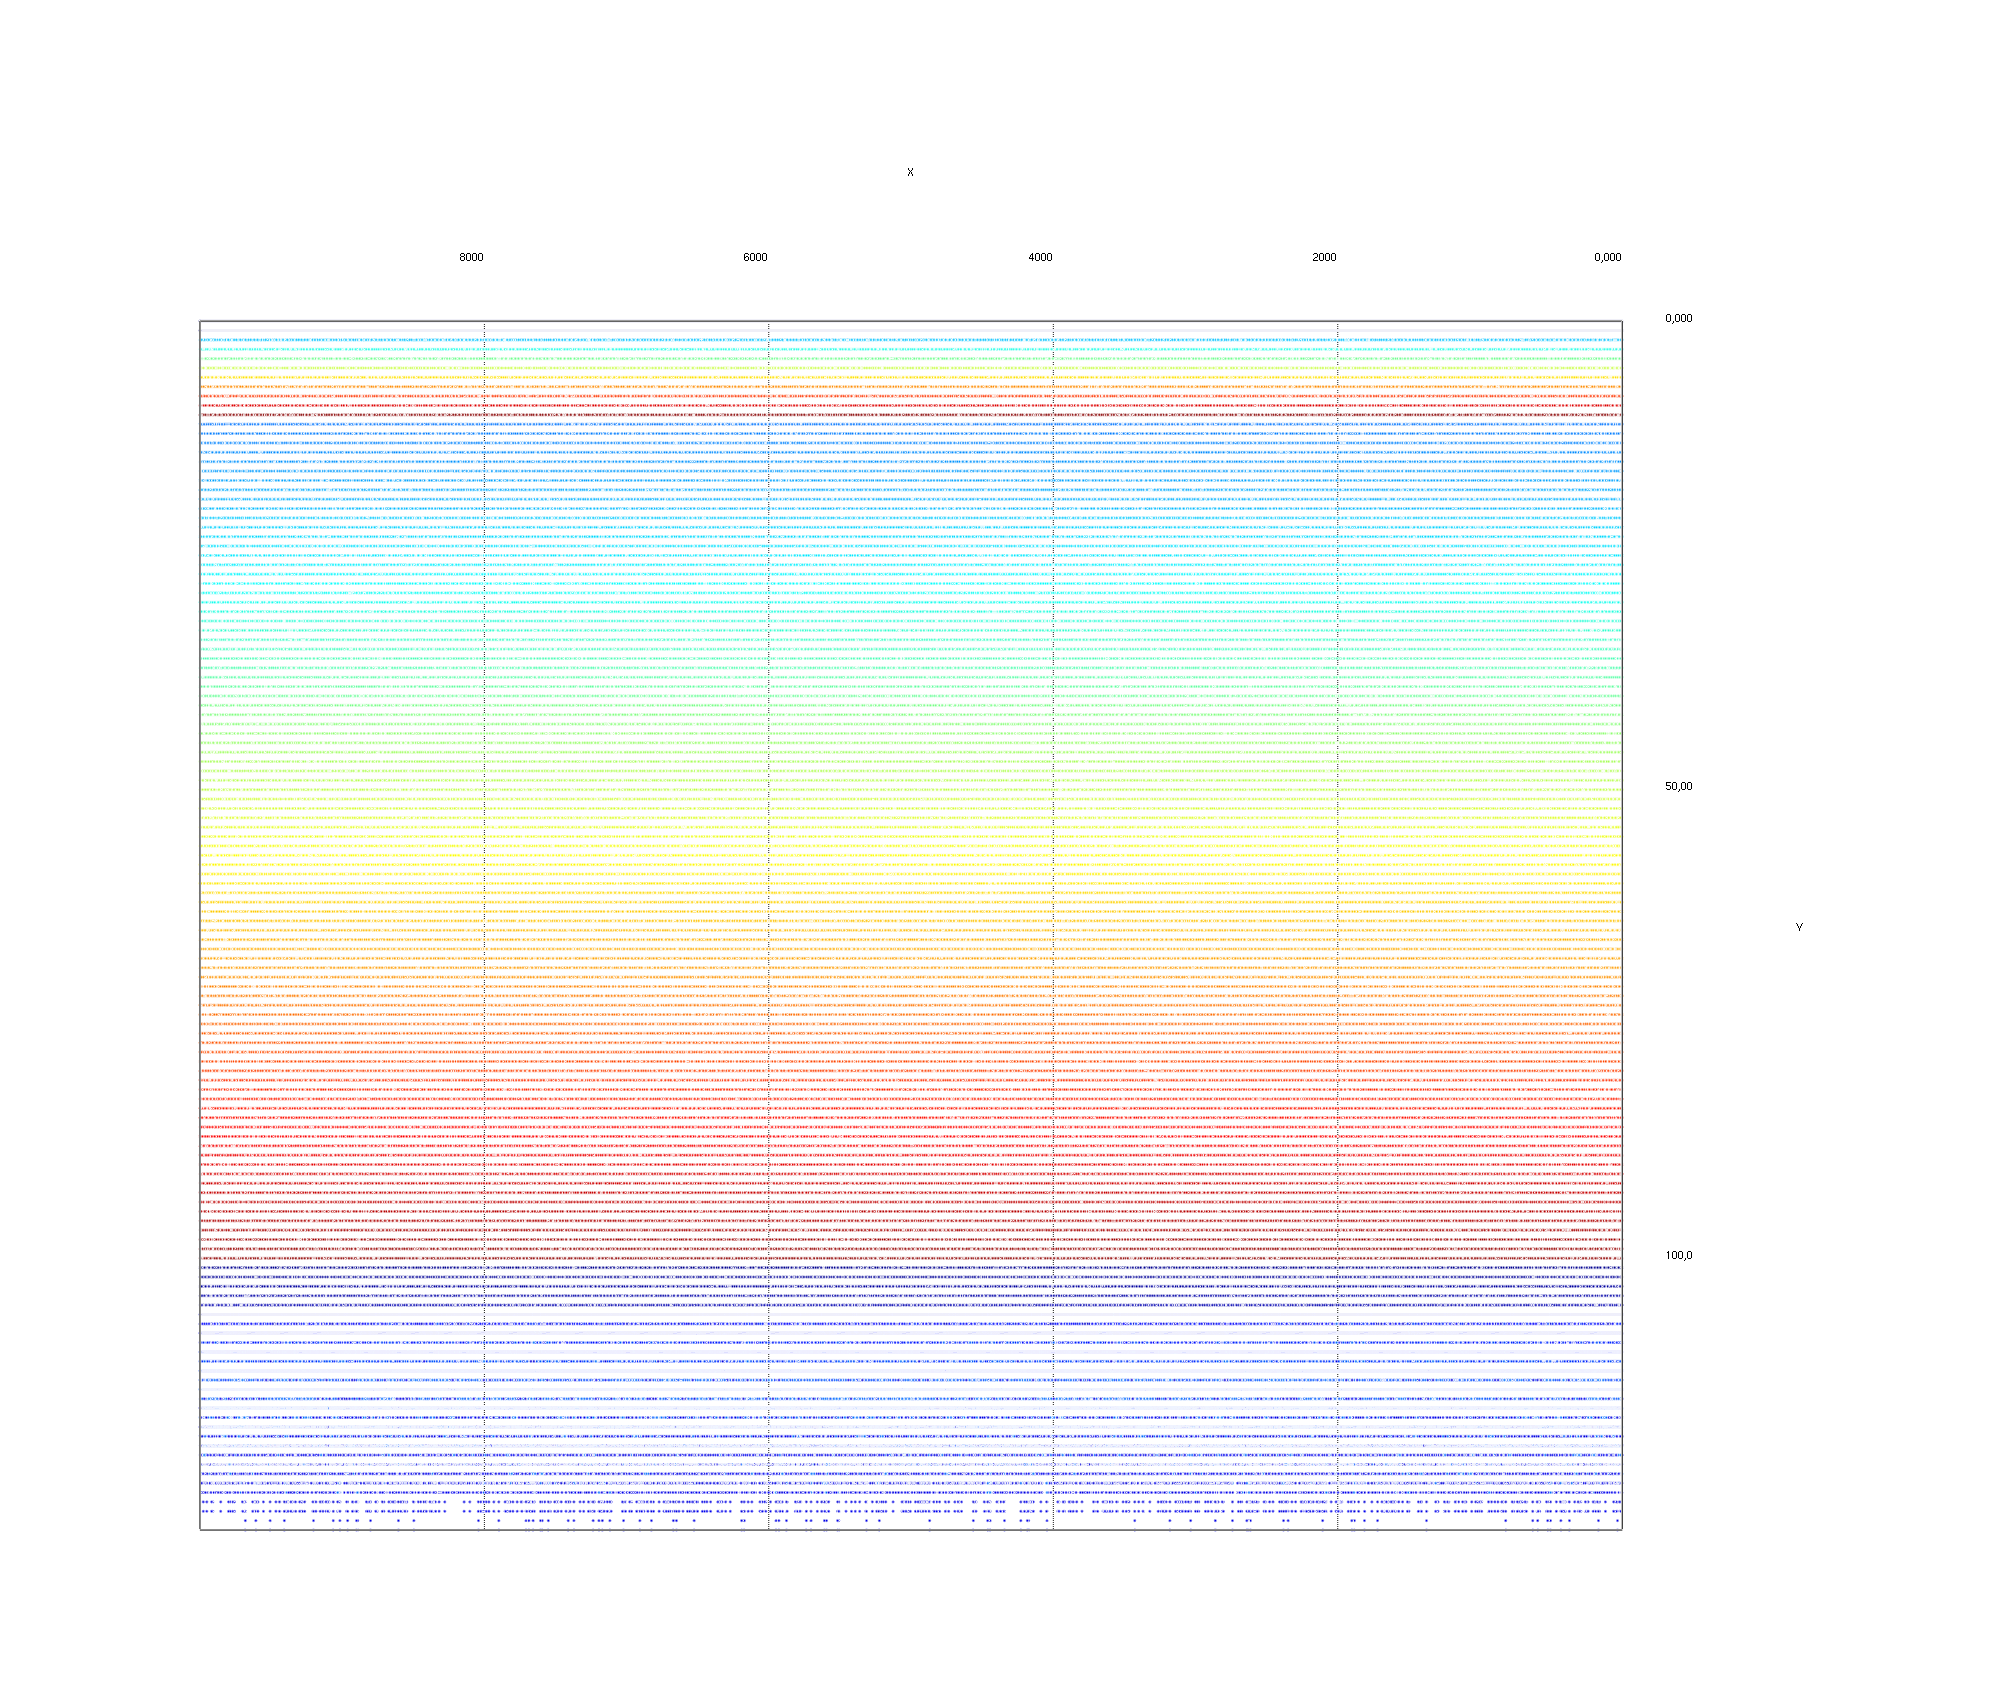
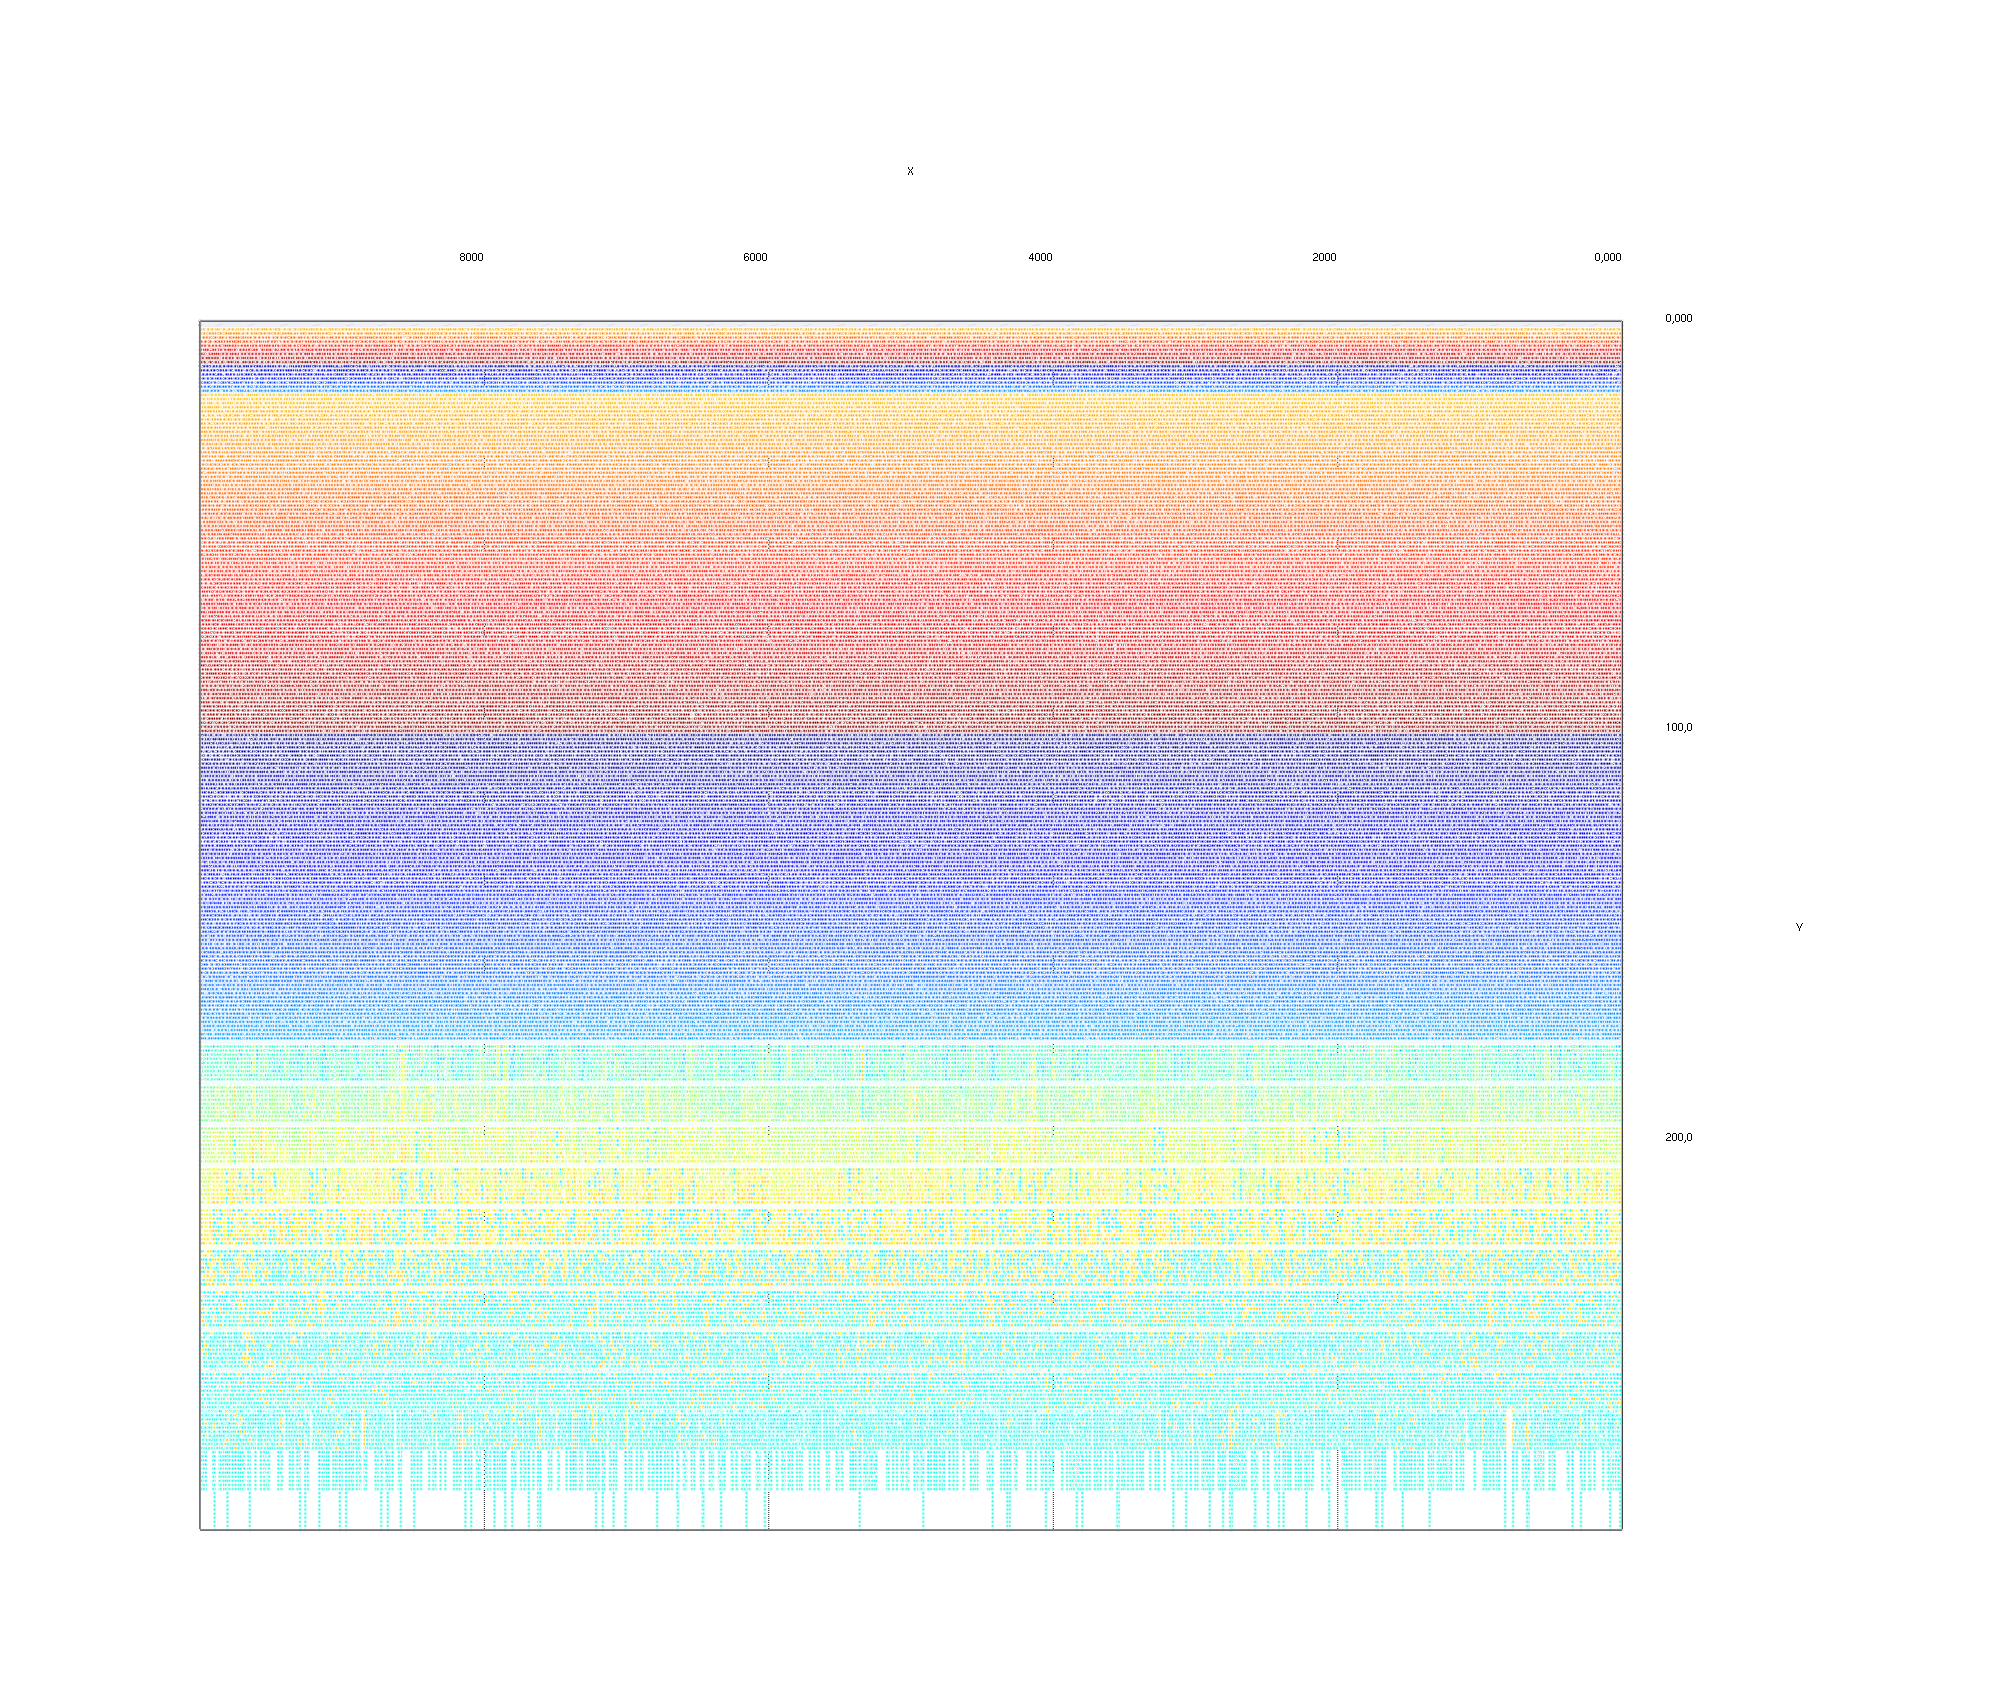
clean vbo

diff --git a/src/test/java/org/jzy3d/demos/vbo/barmodel/generators/GeneratorStarJoin.java b/src/test/java/org/jzy3d/demos/vbo/barmodel/generators/GeneratorStarJoin.java
@@ -9,7 +9,7 @@ import org.jzy3d.plot3d.primitives.vbo.drawable.DrawableVBO;
 public class GeneratorStarJoin {
     public static int MILION = 1000000;
     
-    public static DrawableVBO makeDrawable(int n) {
+    public static DrawableVBO drawable(int n) {
         int nRaws = n;
         int nPivotTheme = 3;
         int nPivotCol = 35 * nPivotTheme;
@@ -17,6 +17,10 @@ public class GeneratorStarJoin {
         int nCpCcCol = 2;
         
         
+        return drawable(nRaws, nPivotCol, nCpCcCat, nCpCcCol);
+    }
+
+    public static DrawableVBO drawable(int nRaws, int nPivotCol, int nCpCcCat, int nCpCcCol) {
         GeneratorKeyValue generator = new GeneratorKeyValue();
         List<List<KeyVal<String,Float>>> rows = generator.vip(nRaws, nPivotCol, nCpCcCat, nCpCcCol);
         DrawableVBO drawable = new DrawableVBO(new VBOBuilderColumnDatabase(rows));

diff --git a/src/test/java/org/jzy3d/demos/vbo/barmodel/DemoStarJoinColumnValuesOffscreen.java b/src/test/java/org/jzy3d/demos/vbo/barmodel/DemoStarJoinColumnValuesOffscreen.java
@@ -12,7 +12,13 @@ public class DemoStarJoinColumnValuesOffscreen {
     public static File f = new File("./data/screenshots/" + DemoStarJoinColumnValuesOffscreen.class.getSimpleName() + ".png");
 
     public static void main(String[] args) throws IOException {
-        DrawableVBO drawable = GeneratorStarJoin.makeDrawable(MILION / 100);
+        int nRaws = MILION / 100;
+        int nPivotTheme = 5;
+        int nPivotCol = 35 * nPivotTheme;
+        int nCpCcCat = 12;
+        int nCpCcCol = 10;
+
+        DrawableVBO drawable = GeneratorStarJoin.drawable(nRaws, nPivotCol, nCpCcCat, nCpCcCol);
         BigPicture.screenshot(drawable, BigPicture.Type.dd, 2000, 1700, f);
     }
 }

diff --git a/src/test/java/org/jzy3d/demos/vbo/barmodel/DemoStarJoinColumnValuesAWT.java b/src/test/java/org/jzy3d/demos/vbo/barmodel/DemoStarJoinColumnValuesAWT.java
@@ -8,7 +8,14 @@ public class DemoStarJoinColumnValuesAWT{
     public static int MILION = 1000000;
 
     public static void main(String[] args) {
-        DrawableVBO drawable = GeneratorStarJoin.makeDrawable(MILION/100);
-        BigPicture.chart(drawable, BigPicture.Type.ddd);
+        int nRaws = MILION / 100;
+        int nPivotTheme = 8;
+        int nPivotCol = 35 * nPivotTheme;
+        int nCpCcCat = 12;
+        int nCpCcCol = 10;
+
+        DrawableVBO drawable = GeneratorStarJoin.drawable(nRaws, nPivotCol, nCpCcCat, nCpCcCol);
+
+        BigPicture.chartBlack(drawable, BigPicture.Type.ddd);
     }
 }

diff --git a/src/test/java/org/jzy3d/demos/vbo/bar/DemoBarVBO.java b/src/test/java/org/jzy3d/demos/vbo/bar/DemoBarVBO.java
@@ -1,7 +1,6 @@
 package org.jzy3d.demos.vbo.bar;
 
 import org.jzy3d.demos.BigPicture;
-import org.jzy3d.maths.TicToc;
 import org.jzy3d.plot3d.primitives.vbo.drawable.BarVBO;
 
 /**
@@ -16,12 +15,9 @@ public class DemoBarVBO {
     public static int MILION = 1000000;
 
     public static void main(String[] args) {
-        TicToc.T.tic();
-        
         float ratio = .5f;
         int size = (int) (ratio * MILION);
         BarVBO bars = new BarVBO(new VBOBuilderRandomBar(size));
         BigPicture.chart(bars, BigPicture.Type.dd);
-        
     }
 }

diff --git a/src/test/java/org/jzy3d/demos/BigPicture.java b/src/test/java/org/jzy3d/demos/BigPicture.java
@@ -26,6 +26,11 @@ public class BigPicture {
         return chart(drawable, type, "awt", false, new Rectangle(1000, 1000));
     }
 
+    public static Chart chartBlack(AbstractDrawable drawable, Type type) {
+        return chart(drawable, type, "awt", true, new Rectangle(1000, 1000));
+    }
+
+    
     public static Chart offscreen(AbstractDrawable drawable, Type type, int width, int height) {
         return chart(drawable, type, "offscreen,"+width+"," + height, false, null);
     }
